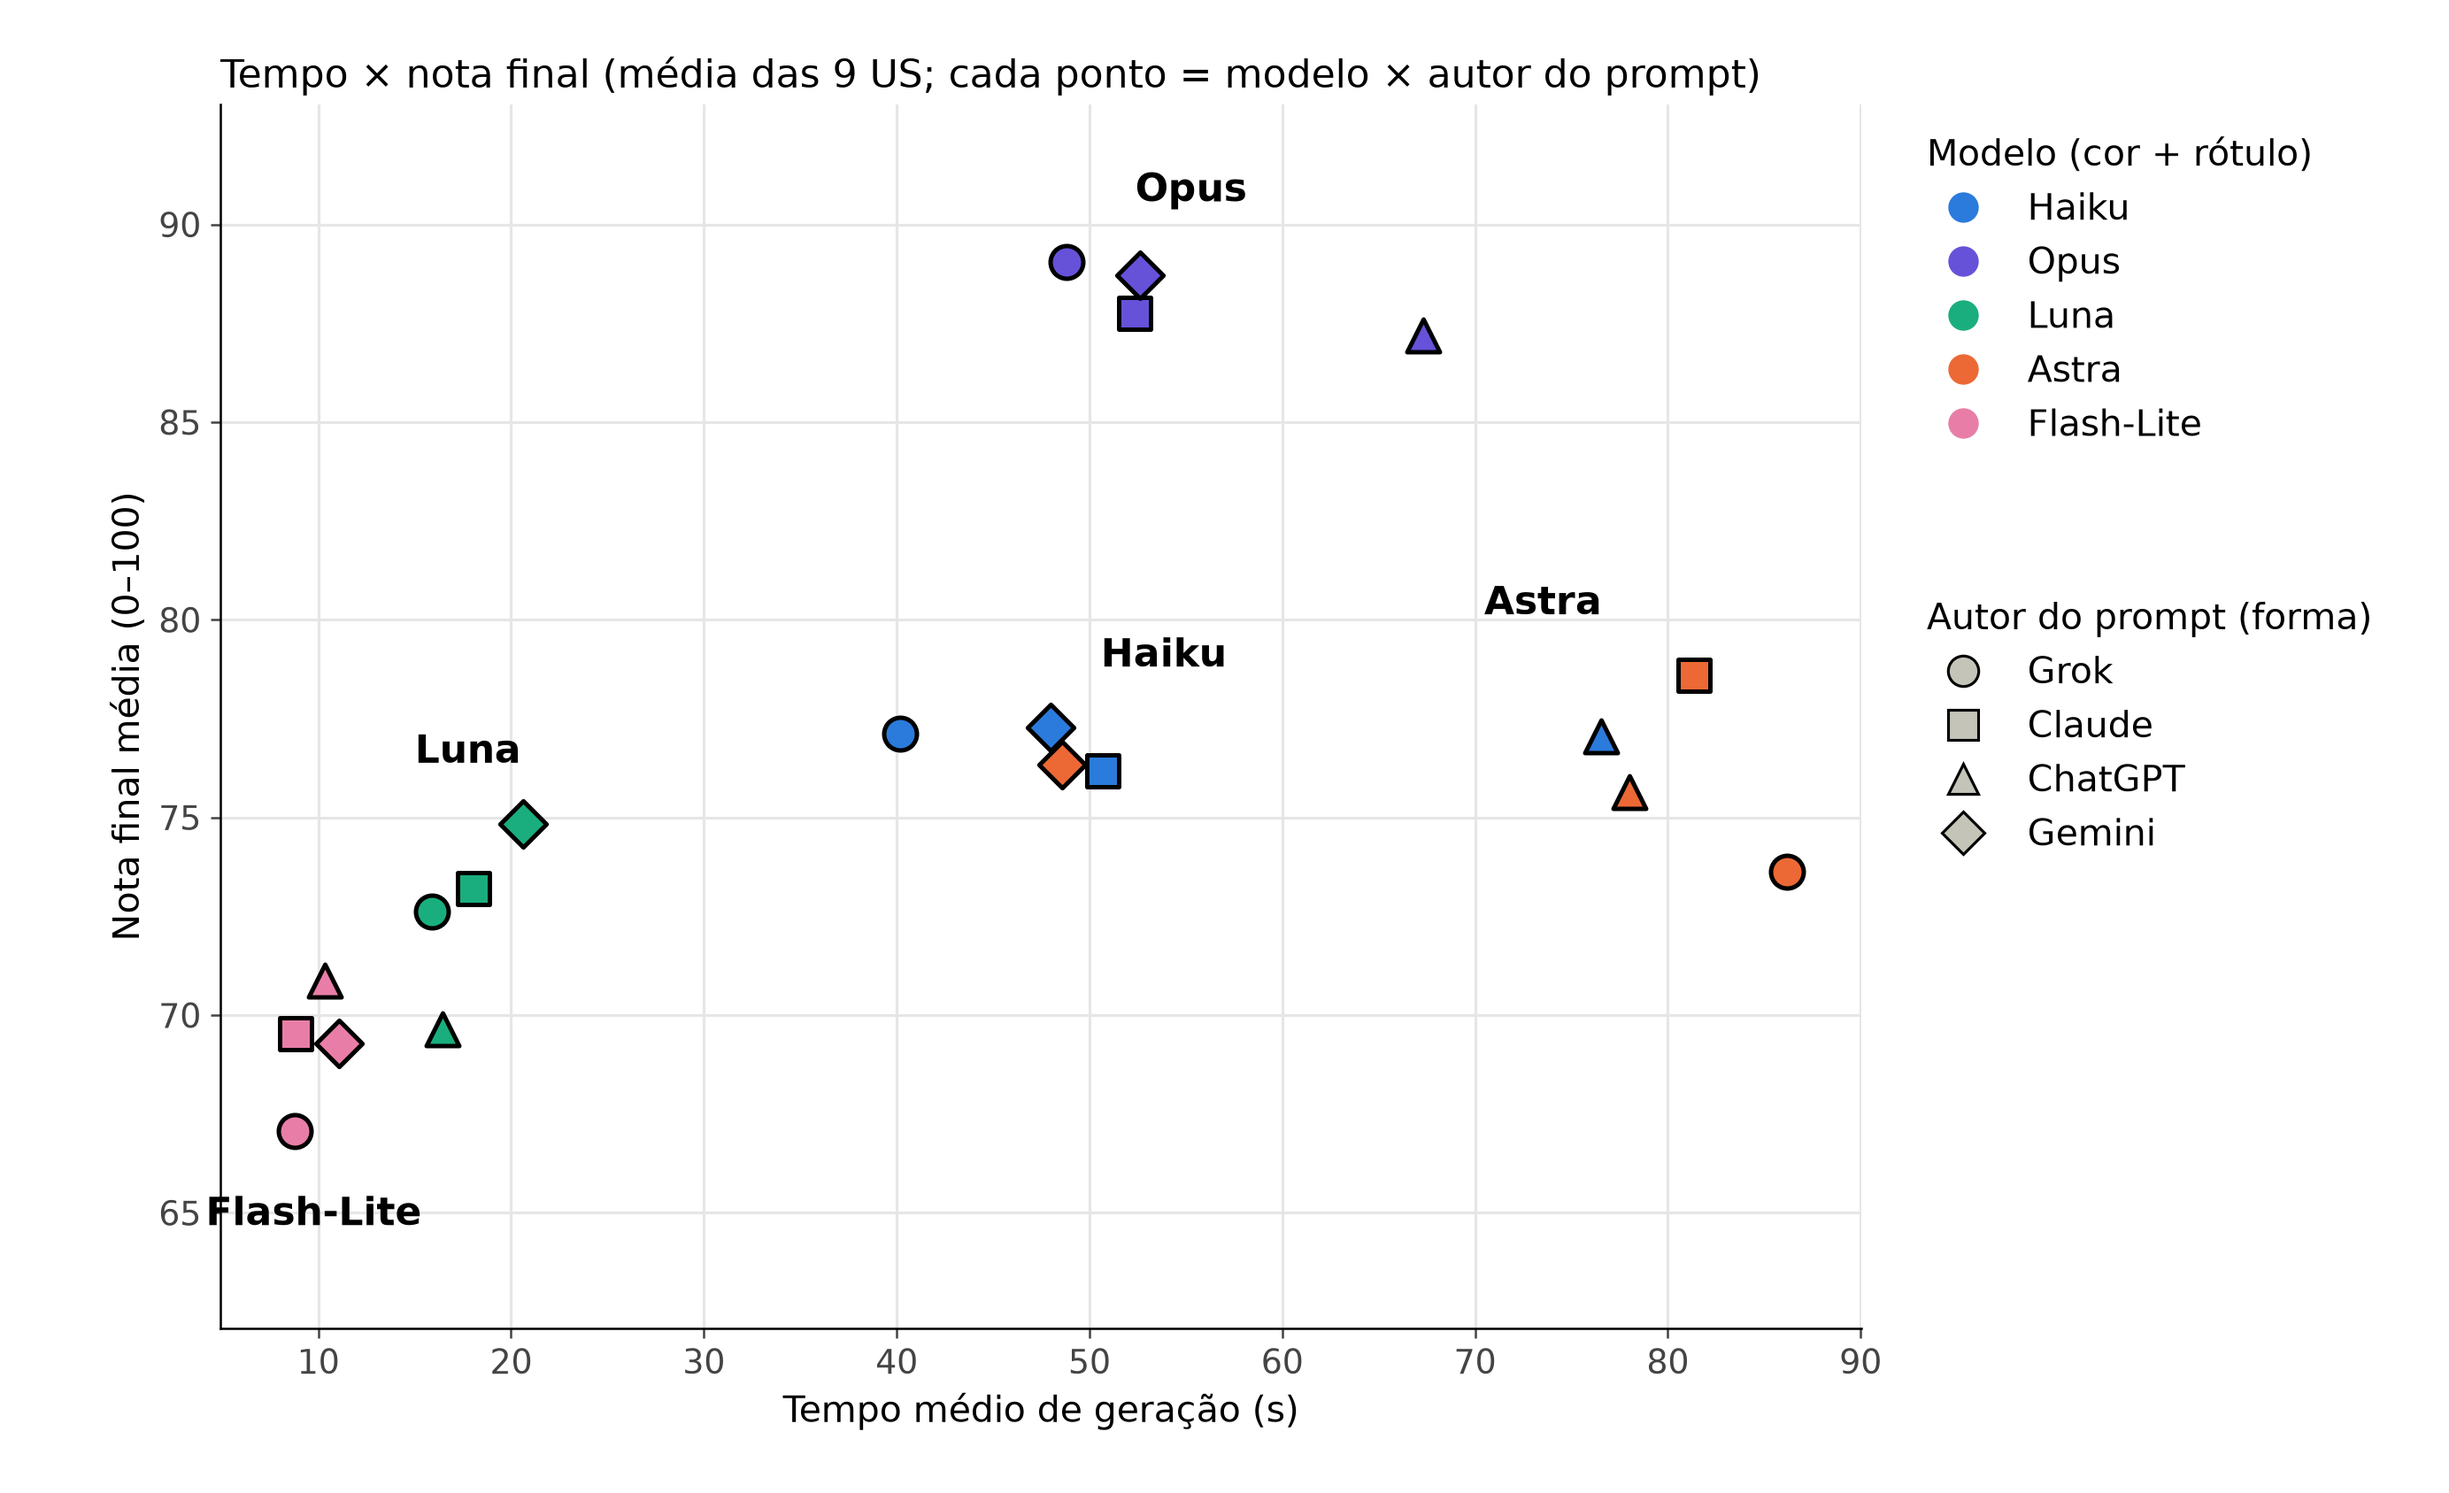
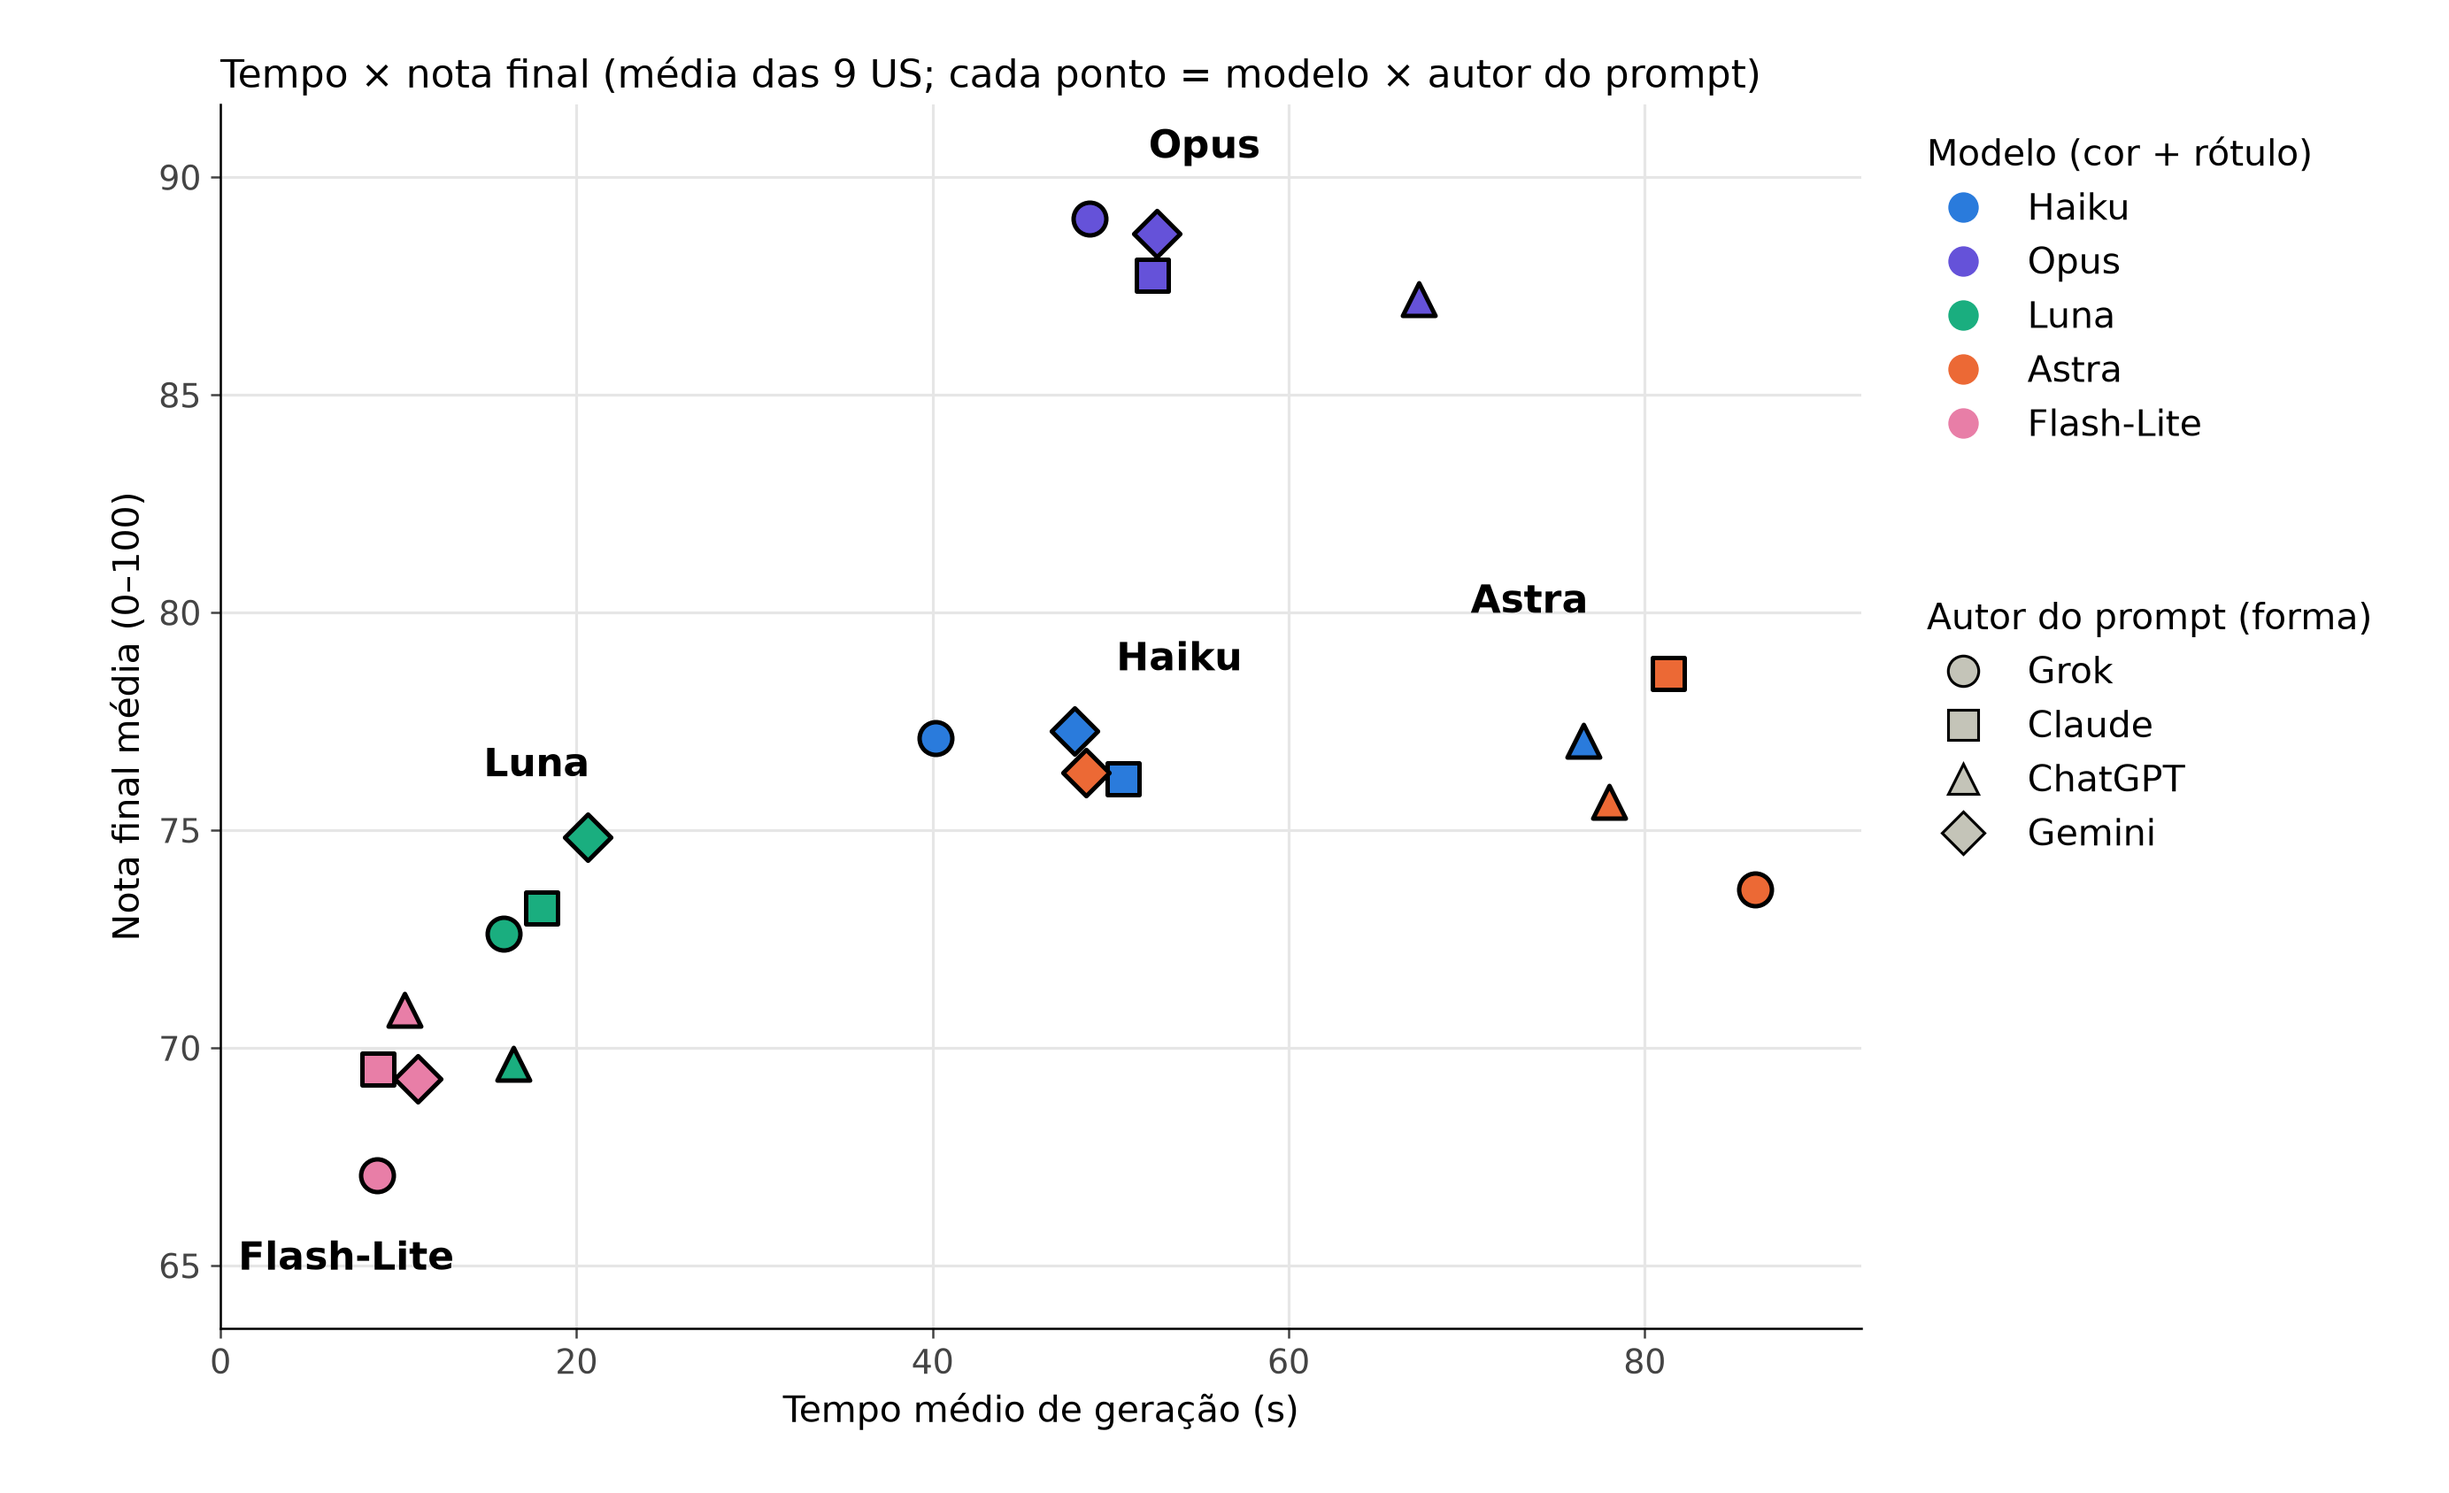
Gráficos: margens e rótulo do Flash-Lite sem sobreposição
Claude-Session: https://claude.ai/code/session_0142vmeBd6gfmcS2NMfffGzq

diff --git a/experimento/analise/graficos.py b/experimento/analise/graficos.py
@@ -55,8 +55,9 @@ def rotulos(ax, med, y):
             yy = min(t[1] for t in pts); dy = -34
         else:
             yy = max(t[1] for t in pts); dy = 22
-        x = sum(t[0] for t in pts) / len(pts)
-        ax.annotate(nome, (x, yy), xytext=(0, dy), textcoords="offset points", ha="center", fontsize=14, fontweight="bold")
+        x, ha = sum(t[0] for t in pts) / len(pts), "center"
+        if m == "flashlite": x, ha = 1, "left"  # junto ao eixo, para não encostar nos pontos do Luna
+        ax.annotate(nome, (x, yy), xytext=(0, dy), textcoords="offset points", ha=ha, fontsize=14, fontweight="bold")
 
 
 def grafico(med, y, ylabel, titulo, arquivo, tamanho=False):
@@ -64,7 +65,8 @@ def grafico(med, y, ylabel, titulo, arquivo, tamanho=False):
     for (m, a), v in med.items():
         ax.scatter(v[0], v[y], s=tam(v[2]) if tamanho else 140, marker=AUTORES[a][1], color=MODELOS[m][1],
                    edgecolors="black", linewidths=1.6 if not tamanho else 1.0, alpha=0.88 if tamanho else 1, zorder=3)
-    ys = [v[y] for v in med.values()]; ax.set_ylim(min(ys) - 5, max(ys) + 4)
+    ys = [v[y] for v in med.values()]; amp = max(ys) - min(ys)
+    ax.set_ylim(min(ys) - 0.16 * amp, max(ys) + 0.12 * amp); ax.set_xlim(0, max(v[0] for v in med.values()) + 6)
     rotulos(ax, med, y); eixo(ax, ylabel, titulo); legendas(ax, tamanho)
     fig.subplots_adjust(left=0.09, right=0.76, top=0.93, bottom=0.11); fig.savefig(arquivo); plt.close(fig)
 
